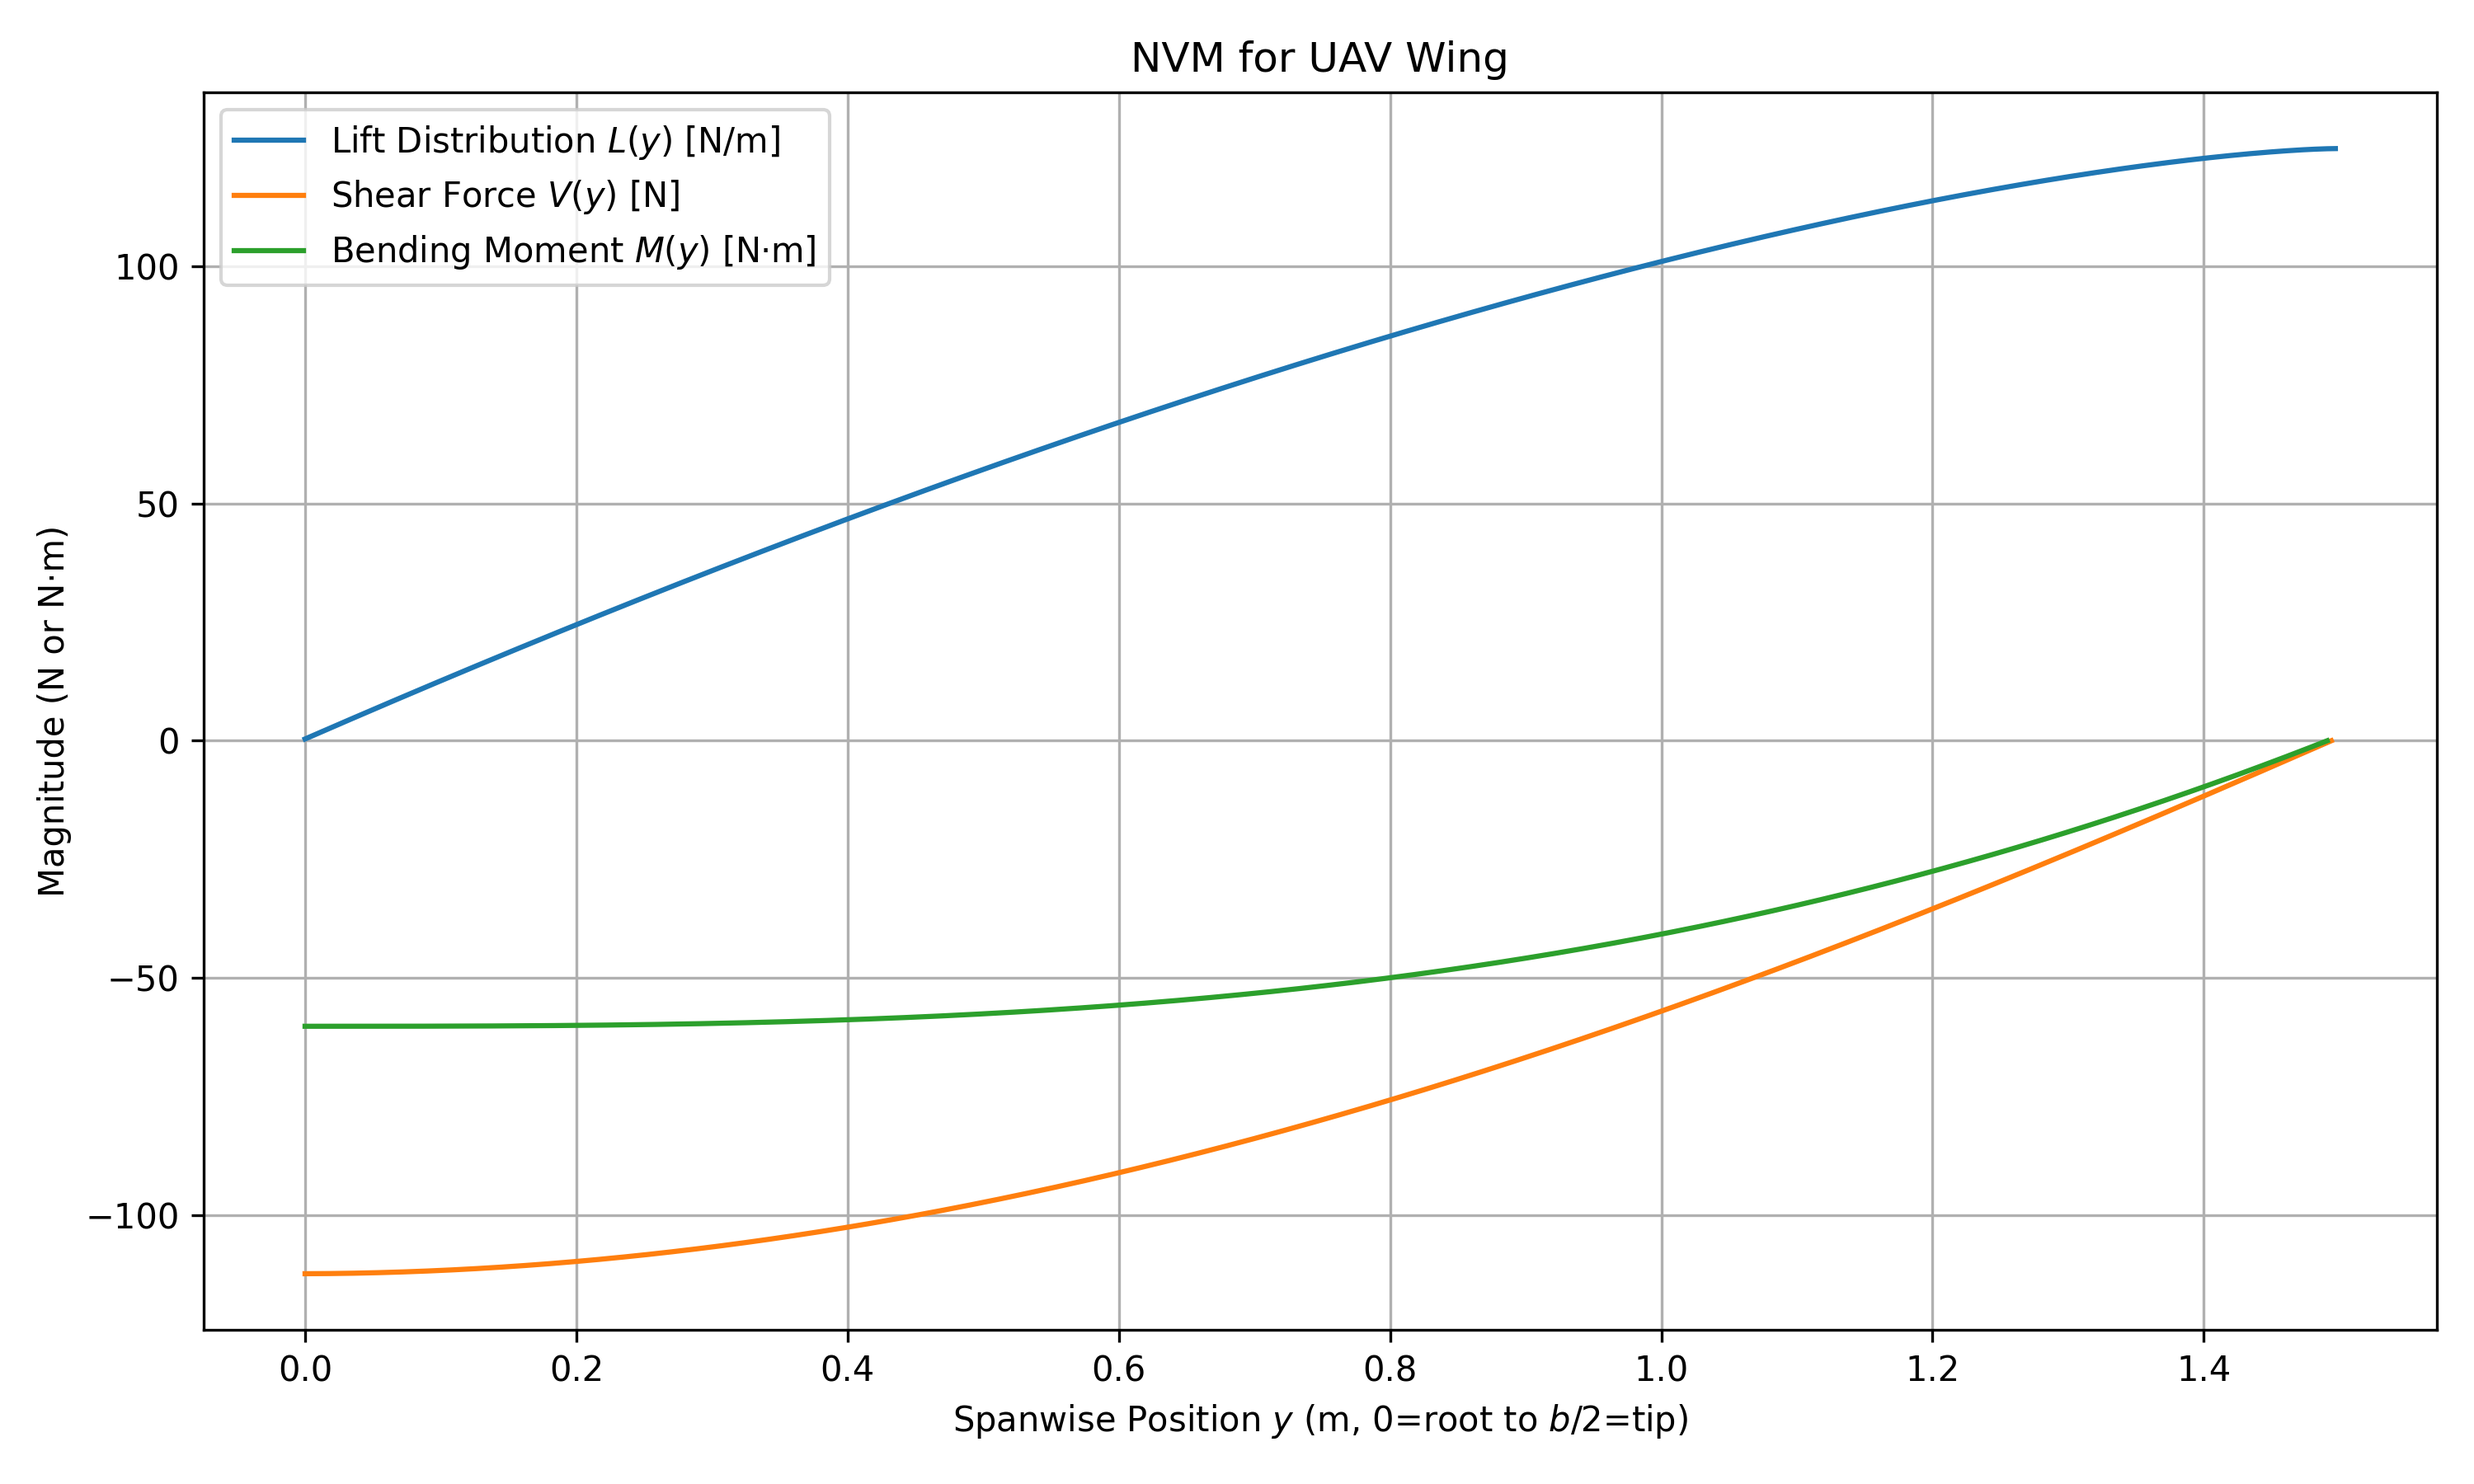
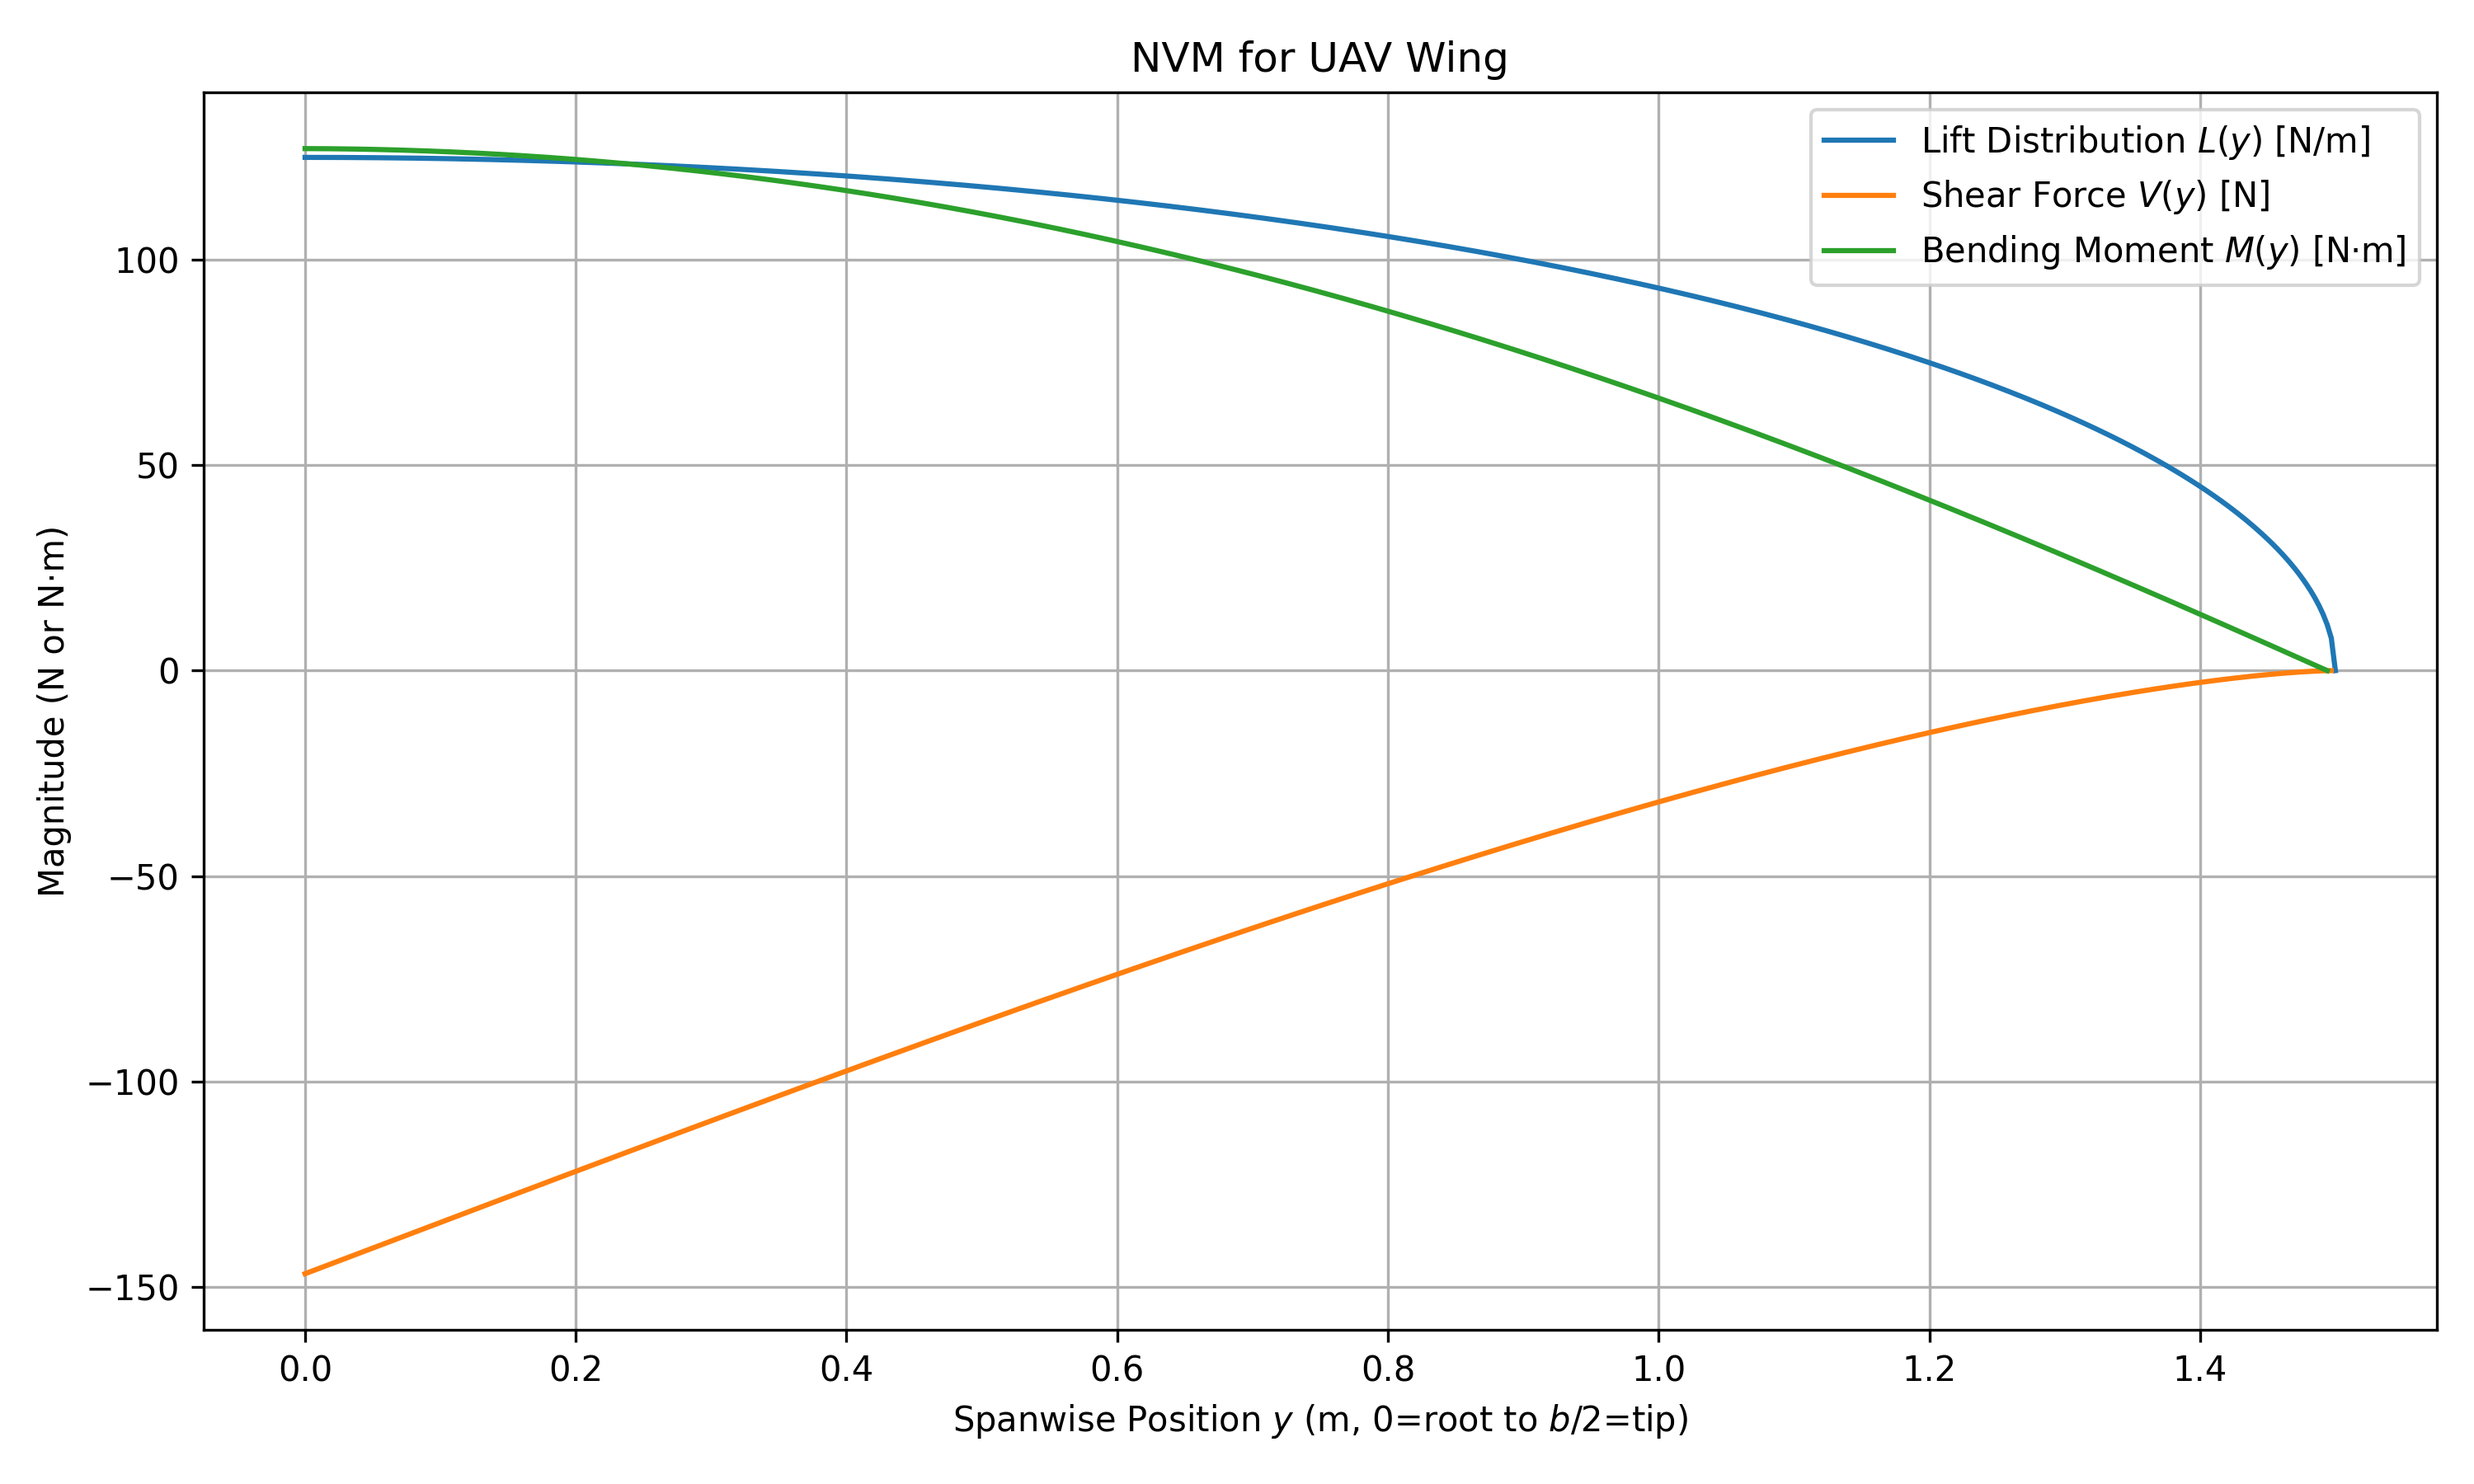
Added things

diff --git a/DetailedDesign/subsystems/structures.py b/DetailedDesign/subsystems/structures.py
@@ -33,12 +33,13 @@ class Structures:
         self.rho = self.inputs['rho']
         self.V_max = self.inputs['V_max']
 
-        self.M_to = inputs["M_to"]
+        # self.M_to = inputs["M_to"]
 
         self.mass_payload = inputs["payload_mass"]
-        self.mass_hardware = inputs["mass_hardware"]
-        self.mass_battery = inputs["mass_battery"]
-        self.mass_propulsion = inputs["mass_propulsion"]
+        # # self.mass_hardware = inputs["mass_hardware"]
+        # self.mass_battery = inputs["mass_battery"]
+        # self.battery_length = inputs['battery length']
+        # self.mass_propulsion = inputs["mass_propulsion"]
         
         self.wing_span = inputs["wing_span"]
                 
@@ -71,24 +72,28 @@ class Structures:
         half_span = self.span / 2.0
         y = np.linspace(0.0, half_span, 500)  # 0 (root) to b/2 (tip)
 
-        # L_y = (self.mtow / (np.pi/4 * self.rho * self.V_max *self.span)) * np.sqrt(1 - (2*y / self.span)**2)
-        L = ((4*self.mtow) / (np.pi*self.span)) * np.sqrt(1 - ((2*y)/self.span))
+        # Defining Lift distribution
 
-        L_y = integrate.cumulative_simpson(L, x=y)
-        V = integrate.cumulative_simpson(L_y, x=y[:-1])
-        M = integrate.cumulative_simpson(V, x=y[:-2])
+        # L = (self.mtow / (np.pi/4 * self.rho * self.V_max *self.span)) * np.sqrt(1 - (2*y / self.span)**2)
+        L_y = ((4*self.mtow) / (np.pi*self.span)) * np.sqrt(1 - ((2*y)/self.span)**2)
 
-        print(len(y), len(M))
+        V = integrate.cumulative_simpson(L_y, x=y)
+        M = integrate.cumulative_simpson(
+            ((4*self.mtow) / np.pi*self.span)*np.sqrt(1-(2*y / self.span)**2), x=y) - integrate.cumulative_simpson()
+        M = -integrate.cumulative_simpson(V, x=y[:-1])
 
         V = V - V[-1]
         M = M - M[-1]
 
+        # Adding weights
+        W_batt = ...
+
 
         # Plot Lift, Shear and Moment on the same axes
         plt.figure(figsize=(10, 6))
-        plt.plot(y[:-1], L_y, label="Lift Distribution $L(y)$ [N/m]")
-        plt.plot(y[:-2], V, label="Shear Force $V(y)$ [N]")
-        plt.plot(y[:-3], M, label="Bending Moment $M(y)$ [N·m]")
+        plt.plot(y, L_y, label="Lift Distribution $L(y)$ [N/m]")
+        plt.plot(y[:-1], V, label="Shear Force $V(y)$ [N]")
+        plt.plot(y[:-2], M, label="Bending Moment $M(y)$ [N·m]")
         plt.title("NVM for UAV Wing")
         plt.xlabel("Spanwise Position $y$ (m, 0=root to $b/2$=tip)")
         plt.ylabel("Magnitude (N or N·m)")
